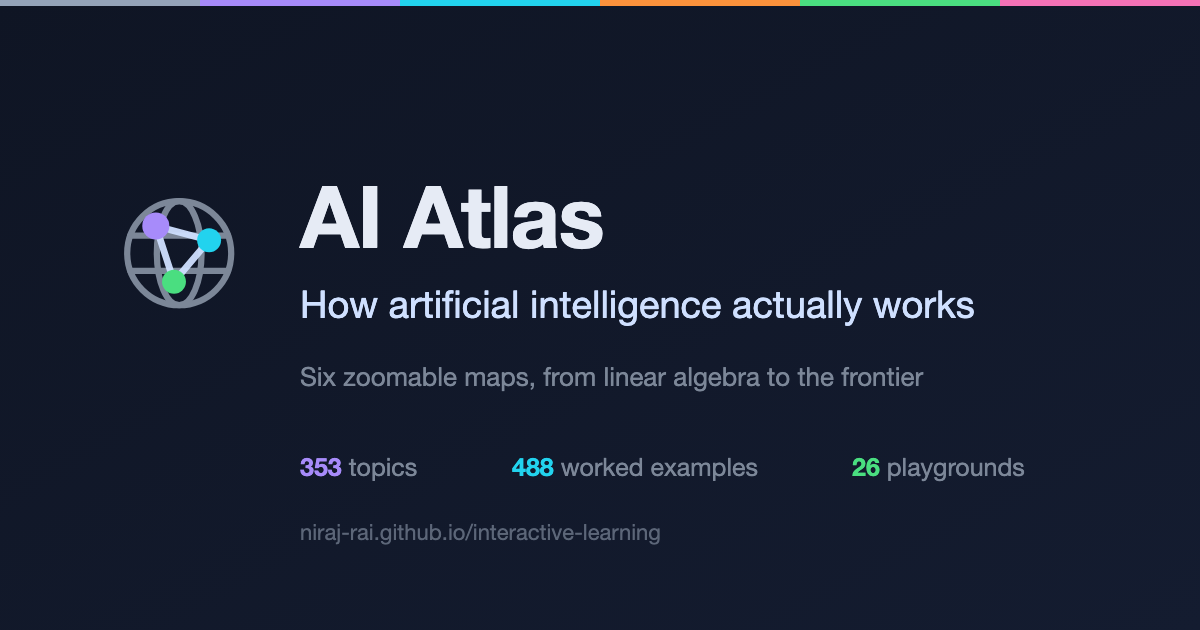
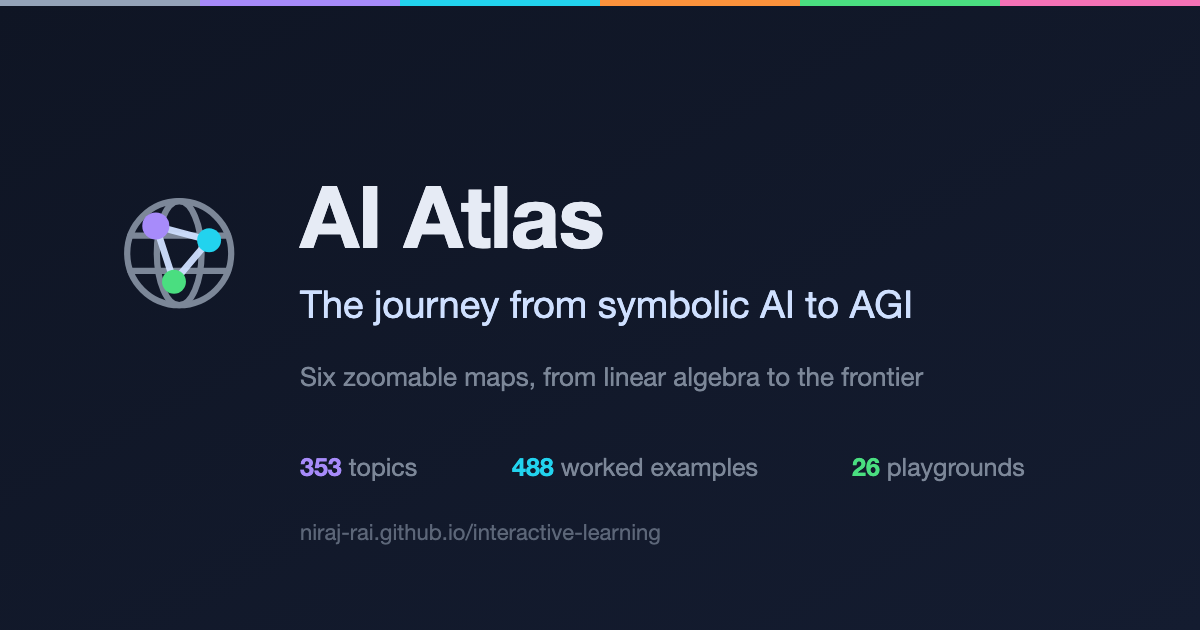
Title the site as the journey it maps
"The journey from symbolic AI to AGI" matches the root canvas, which is the
field laid out as time: Symbolic AI → Statistical Learning → Deep Learning →
Attention → Generative AI → the Frontier. An atlas of a journey earns the
framing.

The Open Graph card carried the previous subtitle baked into the image, so it is
regenerated to match; og-source.svg is kept beside it so the card can be redrawn
rather than reverse-engineered.

Worth recording: the Frontier map holds that AGI has four meanings and no agreed
test, so this title is more confident about the destination than the content it
sits above. Chosen deliberately, with that noted.

Changed region(s): [[0.2467, 0.4524, 0.8325, 0.5127]]

diff --git a/index.html b/index.html
@@ -18,7 +18,7 @@
          resolve a relative path — so they come from VITE_SITE at build time. -->
     <meta property="og:type" content="website" />
     <meta property="og:site_name" content="AI Atlas" />
-    <meta property="og:title" content="AI Atlas — how artificial intelligence actually works" />
+    <meta property="og:title" content="AI Atlas — the journey from symbolic AI to AGI" />
     <meta property="og:description" content="Six zoomable maps from the maths up to the frontier: 353 topics, 488 worked examples with every number editable, and 26 playgrounds." />
     <meta property="og:url" content="%VITE_SITE%/" />
     <meta property="og:image" content="%VITE_SITE%/og.png" />
@@ -30,7 +30,7 @@
     <meta name="twitter:card" content="summary_large_image" />
     <meta name="twitter:image" content="%VITE_SITE%/og.png" />
     <meta name="description" content="Six zoomable maps from the maths up to the frontier: 353 topics, 488 worked examples with every number editable, and 26 playgrounds." />
-    <title>AI Atlas — how artificial intelligence actually works</title>
+    <title>AI Atlas — the journey from symbolic AI to AGI</title>
   </head>
   <body>
     <div id="root"></div>
